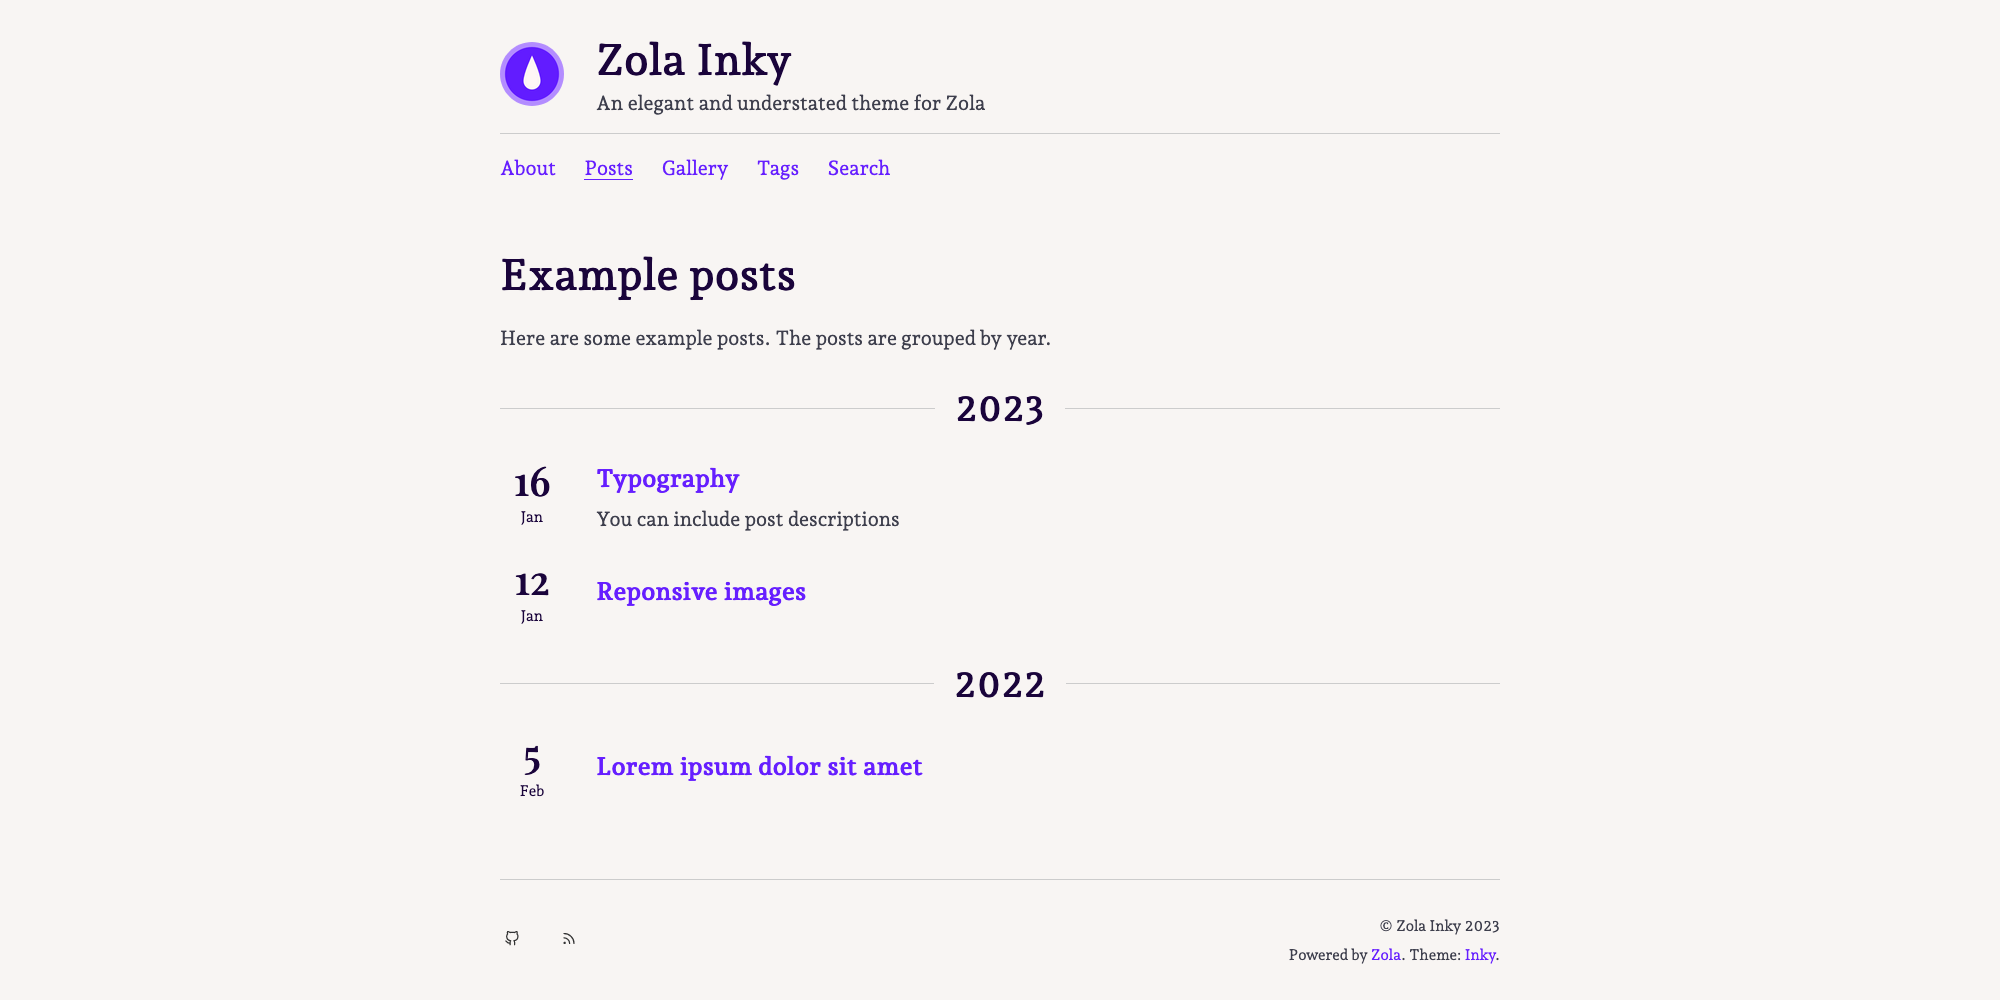
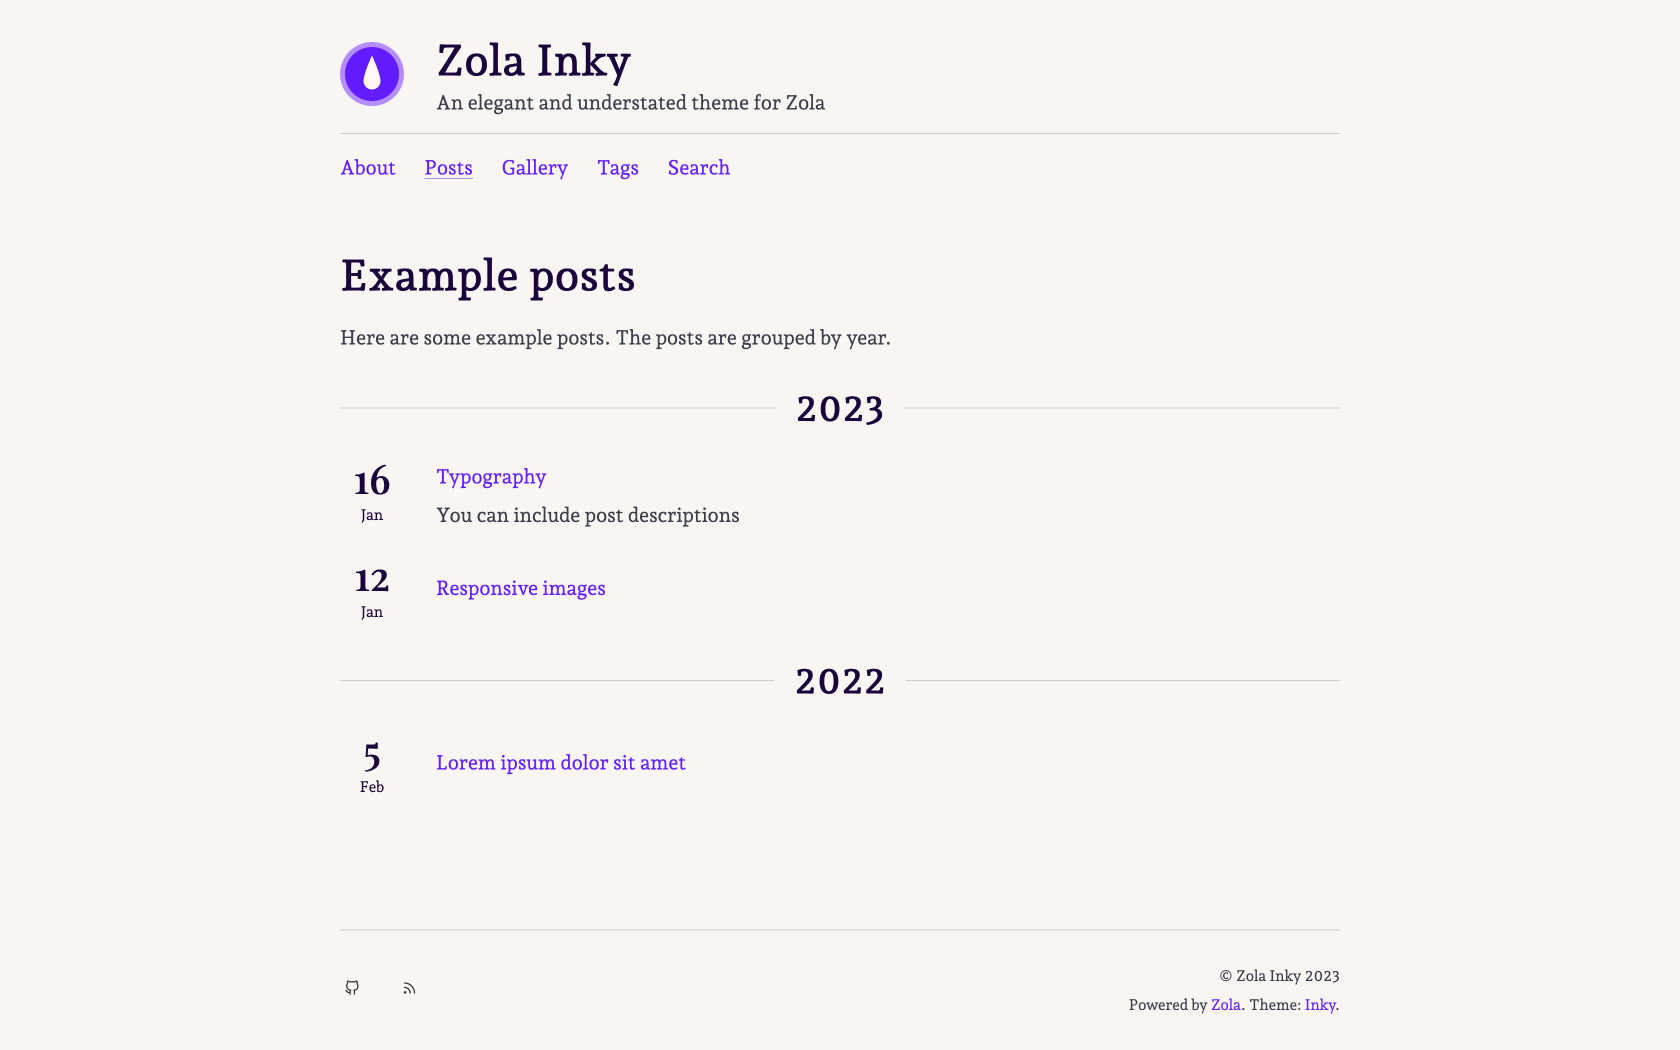
1.1

diff --git a/templates/macros/images.html b/templates/macros/images.html
@@ -1,15 +1,20 @@
 {% extends "base.html" %}
 
+
+{% macro image(path, src, alt, class="") %}
+<img alt="{{ alt }}" title="{{ alt }}" src="{{ get_url(path=path ~ src) | safe }}" class="{{ class }}" />
+{% endmacro image %}
+
 {# 
     Original author: crepererum https://github.com/getzola/even/pull/48/files 
     Adapted to Inky template by jimmyff
 #}
 
-{% macro responsive_image(path, src, alt, default_size, sizes) %}
+{% macro responsive_image(path, src, alt, default_size, sizes, class="") %}
 {% if config.extra.image_resizing_disabled and config.extra.image_resizing_disabled == true %}
-<img alt="{{ alt }}" src="{{ src | safe }}" />
+{{ image(path=path, src=src, alt=alt, class=class) }}
 {% else %}
-    {% set abspath = "./" ~ path ~ src  %}
+    {% set abspath = path ~ src  %}
     {% set meta = get_image_metadata(path=abspath) %}
     {% set width = meta.width %}
     {% set srcset_list = [] %}
@@ -21,16 +26,16 @@
     {% endif %}
     {% endfor %}
     {% set default_resized = resize_image(format=config.extra.image_format, path=abspath, width=default_size, op="fit_width", quality=config.extra.image_quality) %}
-    <img alt="{{ alt }}" src="{{ default_resized.url | safe }}" srcset="{{ srcset_list | join(sep=", ") | safe }}" />
+    <img alt="{{ alt }}" title="{{ alt }}" src="{{ default_resized.url | safe }}" srcset="{{ srcset_list | join(sep=", ") | safe }}" class="{{ class }}" />
 {% endif %}
 {% endmacro responsive_image %}
 
 
-{% macro responsive_thumbnail(path, src, alt, default_size, sizes) %}
+{% macro responsive_thumbnail(path, src, alt, default_size, sizes, class="") %}
 {% if config.extra.image_resizing_disabled and config.extra.image_resizing_disabled == true %}
-    <img alt="{{ alt }}" src="{{ src | safe }}" />
+{{ image(path=path, src=src, alt=alt, class=class) }}
 {% else %}
-    {% set abspath = "./" ~ path ~ src  %}
+    {% set abspath = path ~ src  %}
     {% set meta = get_image_metadata(path=abspath) %}
     {% set width = meta.width %}
     {% set srcset_list = [] %}
@@ -42,6 +47,6 @@
     {% endif %}
     {% endfor %}
     {% set default_resized = resize_image(format=config.extra.image_format, path=abspath, width=default_size, height=default_size, op="fill", quality=config.extra.thumbnail_quality) %}
-    <img alt="{{ alt }}" src="{{ default_resized.url | safe }}" srcset="{{ srcset_list | join(sep=", ") | safe }}" />
+    <img alt="{{ alt }}" title="{{ alt }}" src="{{ default_resized.url | safe }}" srcset="{{ srcset_list | join(sep=", ") | safe }}" class="{{ class }}" />
 {% endif %}
 {% endmacro responsive_thumbnail %}

diff --git a/templates/post.html b/templates/post.html
@@ -15,11 +15,11 @@
       <h1 class="title">{{ page.title }} {% if page.draft %}<span class="draft">Draft</span>{% endif %}</h1>
     </div>
   </div>
-  {{ hooks::above_page(page=page) }}  
+  {{ hooks::post_above_content(page=page) }}  
   <article>{{ page.content | safe }}</article>
 
   
-  {{ hooks::below_page(page=page) }}  
+  {{ hooks::post_below_content(page=page) }}  
   {% if page.taxonomies is containing ("tags") %}
   <ul class="tags">
     {% for tag in page.taxonomies["tags"] %}
@@ -28,6 +28,6 @@
   </ul>
   {% endif %}
   
-  {{ hooks::below_tags(page=page) }}  
+  {{ hooks::post_below_tags(page=page) }}  
 </section>
 {% endblock content %}

diff --git a/templates/gallery.html b/templates/gallery.html
@@ -13,7 +13,7 @@
   {# { set image = resize_image(path=post.path ~ image, width=256, height=256, format=config.extra.image_format, quality=config.extra.thumbnail_quality) %} #}
   <li class="thumbnail">
     <a href="{{ post.permalink | safe }}" title="{{ post.title }} - {{ post.date }}">
-      {{ images::responsive_thumbnail(path="", src=post.path ~ image, default_size=128, sizes=[128,256], alt=post.title  ~ " - "  ~ post.date ) }}
+      {{ images::responsive_thumbnail(path=post.colocated_path, src=image, default_size=128, sizes=[128,256], alt=post.title  ~ " - "  ~ post.date ) }}
     </a>
 
   </li>

diff --git a/templates/macros/hooks.html b/templates/macros/hooks.html
@@ -1,6 +1,10 @@
 {% extends "base.html" %}
 
 {# Page hooks #}
-{% macro above_page(page) %}{% endmacro above_page %}
-{% macro below_page(page) %}{% endmacro below_page %}
-{% macro below_tags(page) %}{% endmacro below_tags %}
+{% macro post_above_content(page) %}{% endmacro above_page %}
+{% macro post_below_content(page) %}{% endmacro below_page %}
+{% macro post_below_tags(page) %}{% endmacro below_tags %}
+
+{% macro posts_below_title(page) %}
+<span class="description"> {{page.description}} </span>
+{% endmacro posts_below_title %}

diff --git a/templates/taxonomy_single.html b/templates/taxonomy_single.html
@@ -16,11 +16,11 @@
           </div>
         </div>
         <div class="matter">
-          <h4 class="title small">
+          <div class="title small">
             <a href="{{ post.permalink | safe }}">{{ post.title }}</a>
             {% if post.draft %}<span class="draft">Draft</span>{% endif %}
-          </h4>
-          <span class="description"> {{post.description}} </span>
+          </div>
+          {{ hooks::posts_below_title(page=post) }} 
         </div>
       </div>
     </li>

diff --git a/templates/posts.html b/templates/posts.html
@@ -16,11 +16,11 @@
         </div>
       </div>
       <div class="matter">
-        <h4 class="title small">
+        <div class="title small">
           <a href="{{ post.permalink | safe }}">{{ post.title }}</a>
           {% if post.draft %}<span class="draft">Draft</span>{% endif %}
-        </h4>
-        <span class="description"> {{post.description}} </span>
+        </div>
+        {{ hooks::posts_below_title(page=post) }} 
       </div>
     </div>
   </li>

diff --git a/templates/base.html b/templates/base.html
@@ -38,7 +38,7 @@
         {% if config.extra.avatar %}
 		<div class="avatar">
 			<a href="/">
-                {{ images::responsive_image(path="", src=config.extra.avatar, default_size=128, sizes=[64,128,256,512], alt=config.title  ) }}
+                {{ images::responsive_image(path="", src=config.extra.avatar, default_size=128, sizes=[64,128,256], alt=config.title  ) }}
 			</a>
 		</div>
 	    {% endif %}

diff --git a/templates/shortcodes/image.html b/templates/shortcodes/image.html
@@ -1,5 +1,3 @@
 
 {% import "macros/images.html" as images -%}
-
-{{ images::responsive_image(path=page.path, src=src, default_size=config.extra.images_default_size, sizes=config.extra.images_sizes, alt=alt  ) }}
-
+{{ images::responsive_image(path=page.colocated_path, src=src, default_size=config.extra.images_default_size, sizes=config.extra.images_sizes, alt=alt, class=class | default(value="") ) }}

diff --git a/sass/blog.scss b/sass/blog.scss
@@ -10,8 +10,14 @@
     img {
       // max-width: 800px;
       max-height: 90vh;
-
       border-radius: var(--border-radius);
+
+      &.small {
+
+        max-height: none;
+        width: 100%;
+        max-width: 500px;
+      }
     }
   }
 }
@@ -98,6 +104,7 @@
   list-style: none;
   padding: 0;
   margin: 1rem 0;
+
 
   li {
     display: inline-block;

diff --git a/templates/shortcodes/image_original.html b/templates/shortcodes/image_original.html
@@ -1,0 +1,3 @@
+
+{% import "macros/images.html" as images -%}
+{{ images::image(path=page.path, src=src, alt=alt, class=class | default(value="") ) }}

diff --git a/CHANGELOG.md b/CHANGELOG.md
@@ -3,6 +3,14 @@
 
 All notable changes to this project will be documented in this file.
 
+## [1.1]
+
+- Set zola minimum version to 0.17
+- Updated responsive images to use the new `page.colocated_path`
+- Hooks names updated for consistency
+- Added class parameter for responsive images
+- Added `images::image()` macro and `image_original` shortcode for images that don't want resizing (eg: animated gifs)
+
 ## [1.0]
 
 - Packaged the theme based on the work of mr-karan and hugo-ink
